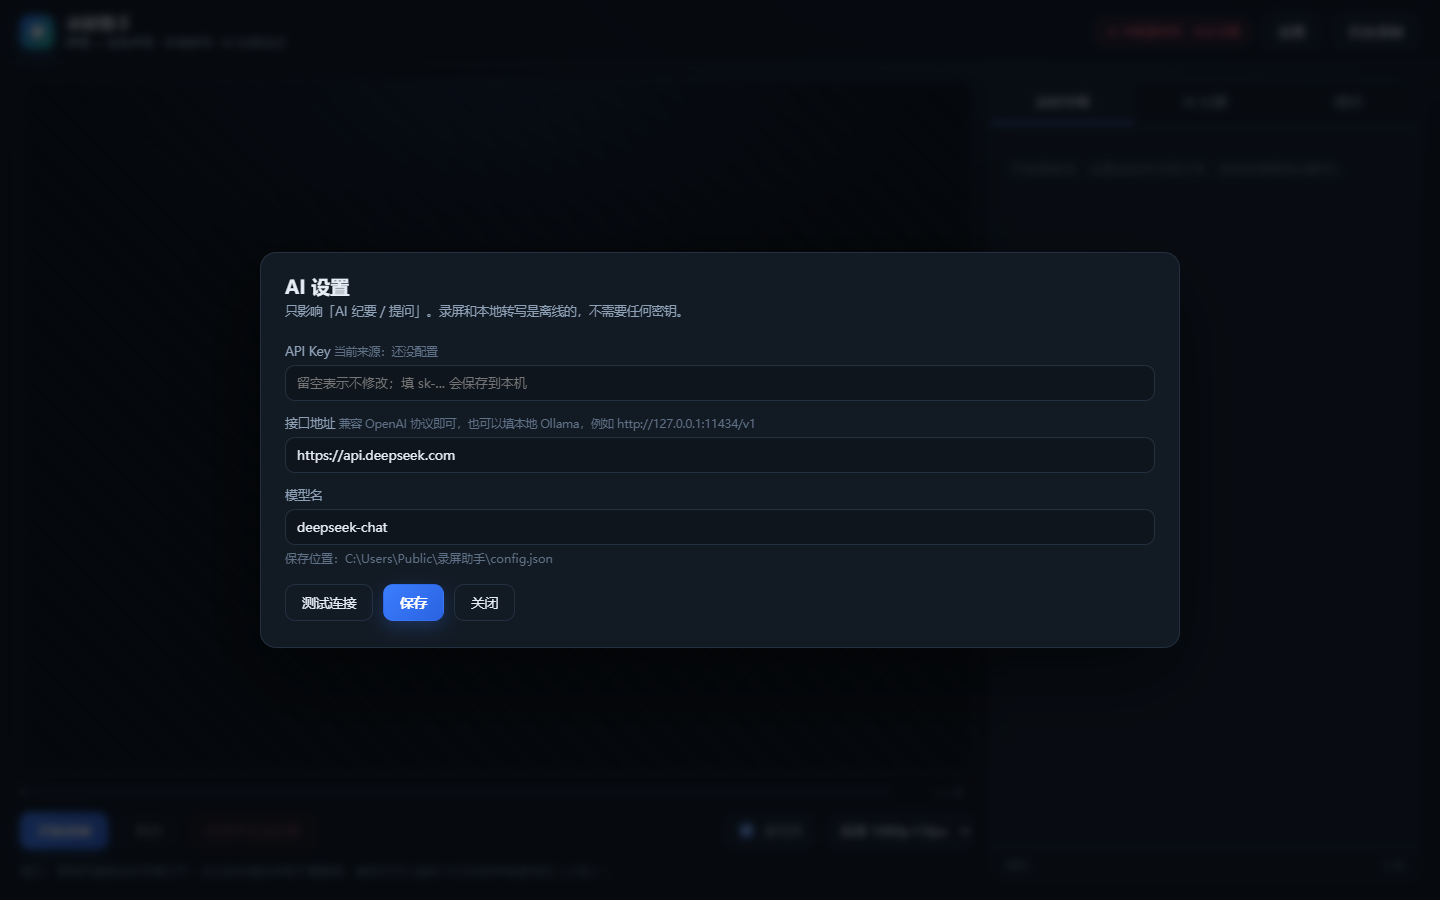
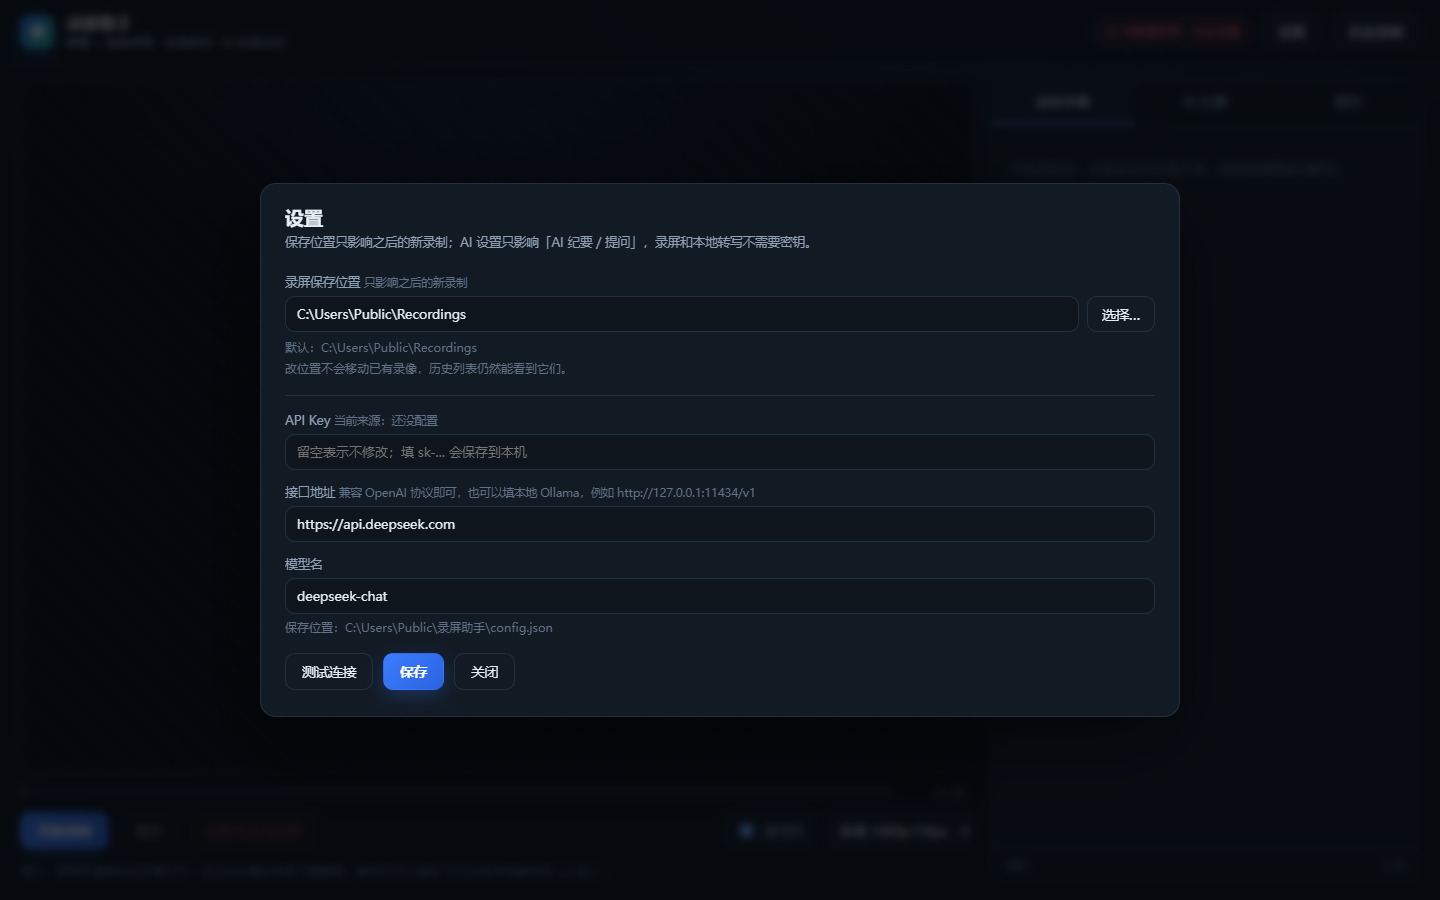
设置：支持自定义录屏保存位置（含文件夹选择），历史记录兼容旧目录

Changed region(s): [[0.1562, 0.1867, 0.7812, 0.8089], [0.75, 0.3422, 0.7812, 0.3733]]

diff --git a/public/app.js b/public/app.js
@@ -819,14 +819,23 @@ async function showHistory() {
 }
 
 async function openSettings() {
-  let llm = {};
-  try { llm = (await (await fetch('/api/config')).json()).llm || {}; } catch { }
+  let cfg = {};
+  try { cfg = await (await fetch('/api/config')).json(); } catch { }
+  const llm = cfg.llm || {};
   const sourceText = { dsh: 'DeepSeek Harness 凭据', config: '本机配置文件', env: '环境变量', none: '还没配置' }[llm.source] || '未知';
   const card = $('#modalCard');
   card.innerHTML = `
-    <h2>AI 设置</h2>
-    <div class="modal-sub">只影响「AI 纪要 / 提问」。录屏和本地转写是离线的，不需要任何密钥。</div>
-    ${llm.source === 'dsh' ? `<div class="warn-box" style="color:#9fd0ff;background:rgba(76,141,255,.08);border-color:rgba(76,141,255,.35)">当前用的是 DeepSeek Harness 的密钥。以后如果要卸载 DSH，点下面「从 DSH 导入密钥」把它复制到本机配置，卸载后 AI 仍然可用。</div>` : ''}
+    <h2>设置</h2>
+    <div class="modal-sub">保存位置只影响之后的新录制；AI 设置只影响「AI 纪要 / 提问」，录屏和本地转写不需要密钥。</div>
+    <div class="form">
+      <label>录屏保存位置 <span class="dim">只影响之后的新录制</span></label>
+      <div class="dir-row">
+        <input id="setDir" value="${esc(cfg.recordings || '')}" spellcheck="false" />
+        ${window.desktop && window.desktop.pickFolder ? '<button type="button" id="btnPickDir" class="ghost">选择…</button>' : ''}
+      </div>
+      <p class="hint">默认：${esc(cfg.recordingsDefault || '')}<br />改位置不会移动已有录像，历史列表仍然能看到它们。</p>
+    </div>
+    <hr class="sep" />
     <div class="form">
       <label>API Key <span class="dim">当前来源：${esc(sourceText)}${llm.keyHint ? ' · ' + esc(llm.keyHint) : ''}</span></label>
       <input id="setKey" type="password" autocomplete="off" placeholder="留空表示不修改；填 sk-... 会保存到本机" />
@@ -845,6 +854,14 @@ async function openSettings() {
     </div>`;
   openModal();
   $('#btnCloseModal').addEventListener('click', closeModal);
+  $('#btnPickDir')?.addEventListener('click', async () => {
+    try {
+      const dir = await window.desktop.pickFolder();
+      if (dir) $('#setDir').value = dir;
+    } catch (err) {
+      toast('选择文件夹失败：' + (err.message || err), 'err');
+    }
+  });
   $('#btnTestLlm')?.addEventListener('click', async (e) => {
     const btn = e.currentTarget;
     const out = $('#testResult');
@@ -903,12 +920,17 @@ async function openSettings() {
           apiKey: $('#setKey').value,
           baseUrl: $('#setBase').value,
           model: $('#setModel').value,
+          recordingsDir: $('#setDir') ? $('#setDir').value : undefined,
         }),
       });
       const j = await r.json().catch(() => ({}));
       if (!r.ok) throw new Error(j.error || `HTTP ${r.status}`);
       applyLlmBadge(j.llm);
-      toast(j.llm.ready ? '已保存，AI 可以用了' : '已保存，但还没有密钥', j.llm.ready ? 'ok' : 'err');
+      if (j.recordings) state.recordingsDir = j.recordings;
+      toast(
+        j.llm.ready ? '已保存：新录制会存到上面的位置' : '已保存，但还没有 AI 密钥',
+        j.llm.ready ? 'ok' : 'err',
+      );
       closeModal();
     } catch (err) {
       btn.disabled = false;

diff --git a/public/app.css b/public/app.css
@@ -276,6 +276,10 @@ select {
   border-radius: 10px; padding: 9px 11px; font-size: 13px; outline: none; font-family: inherit;
 }
 .form input:focus { border-color: #33507a; }
+.dir-row { display: flex; gap: 8px; align-items: stretch; }
+.dir-row input { flex: 1; min-width: 0; }
+.dir-row button { white-space: nowrap; padding: 0 14px; }
+.sep { border: 0; border-top: 1px solid var(--line); margin: 16px 0 6px; }
 .dim { color: var(--dim); font-size: 11.5px; }
 .test-result { font-size: 12.5px; line-height: 1.6; margin-top: 8px; white-space: pre-wrap; word-break: break-all; }
 .test-result.ok { color: var(--accent-2); }

diff --git a/README.md b/README.md
@@ -110,6 +110,16 @@ meta.json        元数据
 
 ## 配置
 
+### 录屏保存位置
+
+点右上角 **设置**，在「录屏保存位置」里直接输入路径，或点 **选择…** 挑一个文件夹（桌面版会弹系统文件夹选择框）。
+
+- 只影响**之后的新录制**，已有录像不会被移动
+- 改过位置后，历史列表仍然会扫描旧目录，旧录像不会消失
+- 默认位置：`C:\Users\<你>\Videos\录屏助手`
+
+对应 `%APPDATA%\录屏助手\config.json` 里的 `recordingsDir`（旧目录记录在 `recordingsDirs`）。
+
 ### AI 模型
 
 点右上角 **设置** 填 API Key / 接口地址 / 模型名，点 **测试连接** 验证后保存。密钥保存在本机：
